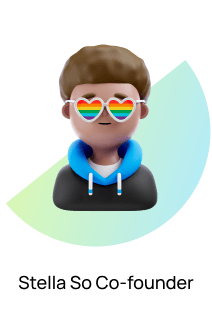
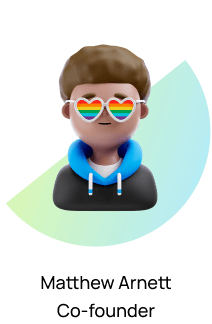
update home page

Changed region(s): [[0.0849, 0.8333, 0.9057, 0.8951], [0.2547, 0.9259, 0.7358, 0.9877]]

diff --git a/components/mutil-field/index.tsx b/components/mutil-field/index.tsx
@@ -22,9 +22,9 @@ const MutilField = () => {
             <Col span={8}>
               <div className="wrap-field">
                 <span className="head-field">
-                  Lorem ipsum dolor sit amet, consectetur adipiscing elit.
-                  Vestibulum ultricies tempus euismod.Lorem ipsum dolor sit
-                  amet, consectetur adipiscing elit.
+                  Flocks AI mang đến cho mọi người quyền tham gia đầu tư vào các
+                  doanh nghiệp ở giai đoạn khởi nghiệp với nhiều hình thức đa
+                  dạng.
                 </span>
                 <div className="type-field">
                   <span className="br-radius">Công nghệ</span>
@@ -75,8 +75,8 @@ const MutilField = () => {
           </Row>
         </div>
         <div className="sub-title title">
-          <span className="content">Flocks AI </span>
-          <span>hoạt động như thế nào?</span>
+          <span className="content">Flocks AI </span>{" "}
+          <span> hoạt động như thế nào?</span>
         </div>
         <Row justify="center" className="wrap-content">
           <Col span={6} className="wrap-sub">

diff --git a/components/answer-question/index.tsx b/components/answer-question/index.tsx
@@ -25,7 +25,7 @@ const AnswerQuestion = () => {
           </span>
         </div>
         <Row justify="center">
-          <Col span={6}>
+          <Col span={8}>
             <Collapse
               ghost
               expandIconPosition="end"
@@ -62,7 +62,7 @@ const AnswerQuestion = () => {
             </Collapse>
           </Col>
           <Col span={1} />
-          <Col span={6}>
+          <Col span={8}>
             <Collapse
               ghost
               expandIconPosition="end"

diff --git a/components/founder-team/index.tsx b/components/founder-team/index.tsx
@@ -55,13 +55,13 @@ const FounderTeam = () => {
           />
           <Image
             alt="team"
-            src="/image/home/StellaSoCo-founder1.png"
+            src="/image/home/Liz-Pham.png"
             width={212}
             height={324}
           />
           <Image
             alt="team"
-            src="/image/home/StellaSoCo-founder2.png"
+            src="/image/home/Son-Pham.png"
             width={212}
             height={324}
           />

diff --git a/components/mutil-field/styled.tsx b/components/mutil-field/styled.tsx
@@ -20,8 +20,8 @@ const SMutilField = styled.div`
       color: #1e1e1e;
     }
   }
-  .second {
-    background: linear-gradient(
+  .second span {
+    background: -webkit-linear-gradient(
       270deg,
       #c7f833 -3.31%,
       #5ddfc0 54.93%,
@@ -64,6 +64,7 @@ const SMutilField = styled.div`
     margin-top: 104px;
     margin-bottom: 64px;
     .content {
+      margin-right: 8px;
       font-weight: 700;
       font-size: 48px;
       line-height: 56px;

diff --git a/components/invesment/style.ts b/components/invesment/style.ts
@@ -1,7 +1,7 @@
 import styled from "styled-components";
 
 const SInvesment = styled.div`
-  padding: 136px 280px 60px 232px;
+  padding: 136px 160px 60px 200px;
   .wrap {
     margin-bottom: 64px;
   }
@@ -22,6 +22,9 @@ const SInvesment = styled.div`
       background: transparent;
       border: none;
     }
+  }
+  .image-banner {
+    width: 100%;
   }
   .img-consul {
     display: flex;
